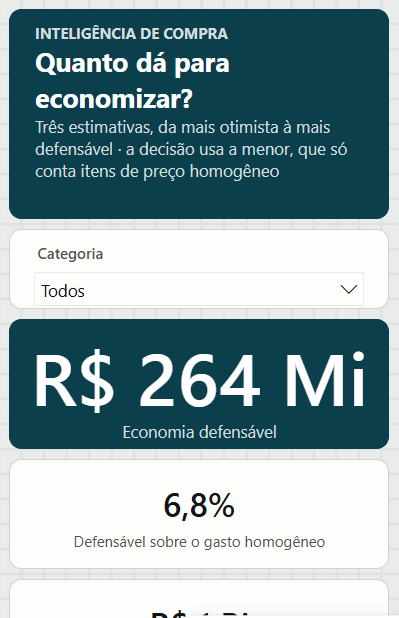
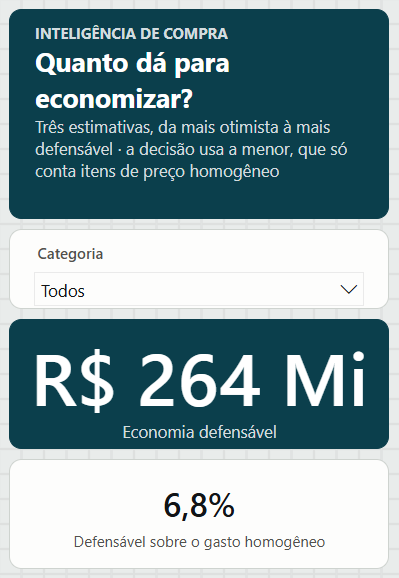
fix: captura do celular não corta cartão ao meio e parte sempre do topo da página
- o recorte termina no fim do último visual que cabe inteiro na primeira tela
- a tela de celular é rolada até o topo antes da captura
- o botão de layout é escolhido entre os que aceitam acionamento, com nova tentativa
  enquanto a janela recém-aberta não está pronta

Changed region(s): [[0.0, 0.3426, 0.9925, 1.0], [0.0902, 0.0311, 0.8722, 0.3114]]

diff --git a/README.md b/README.md
@@ -68,12 +68,12 @@ conferidos automaticamente contra o BigQuery (23 de 23 valores conferem); o proc
 
 ![Quanto dá para economizar](docs/img/painel-economia.png)
 
-Cada página tem também um layout para celular, gerado pelo mesmo código:
+Cada página tem também um layout para celular, gerado pelo mesmo código (aqui, o topo de cada uma):
 
 <p>
-  <img src="docs/img/celular-gasto.png" width="30%" alt="Onde está o gasto, no celular">
-  <img src="docs/img/celular-preco.png" width="30%" alt="Onde se paga caro, no celular">
-  <img src="docs/img/celular-economia.png" width="30%" alt="Quanto dá para economizar, no celular">
+  <img src="docs/img/celular-gasto.png" width="30%" align="top" alt="Onde está o gasto, no celular">
+  <img src="docs/img/celular-preco.png" width="30%" align="top" alt="Onde se paga caro, no celular">
+  <img src="docs/img/celular-economia.png" width="30%" align="top" alt="Quanto dá para economizar, no celular">
 </p>
 
 As cores vêm de um tema por área de negócio (compras, financeiro, vendas, pessoas,
